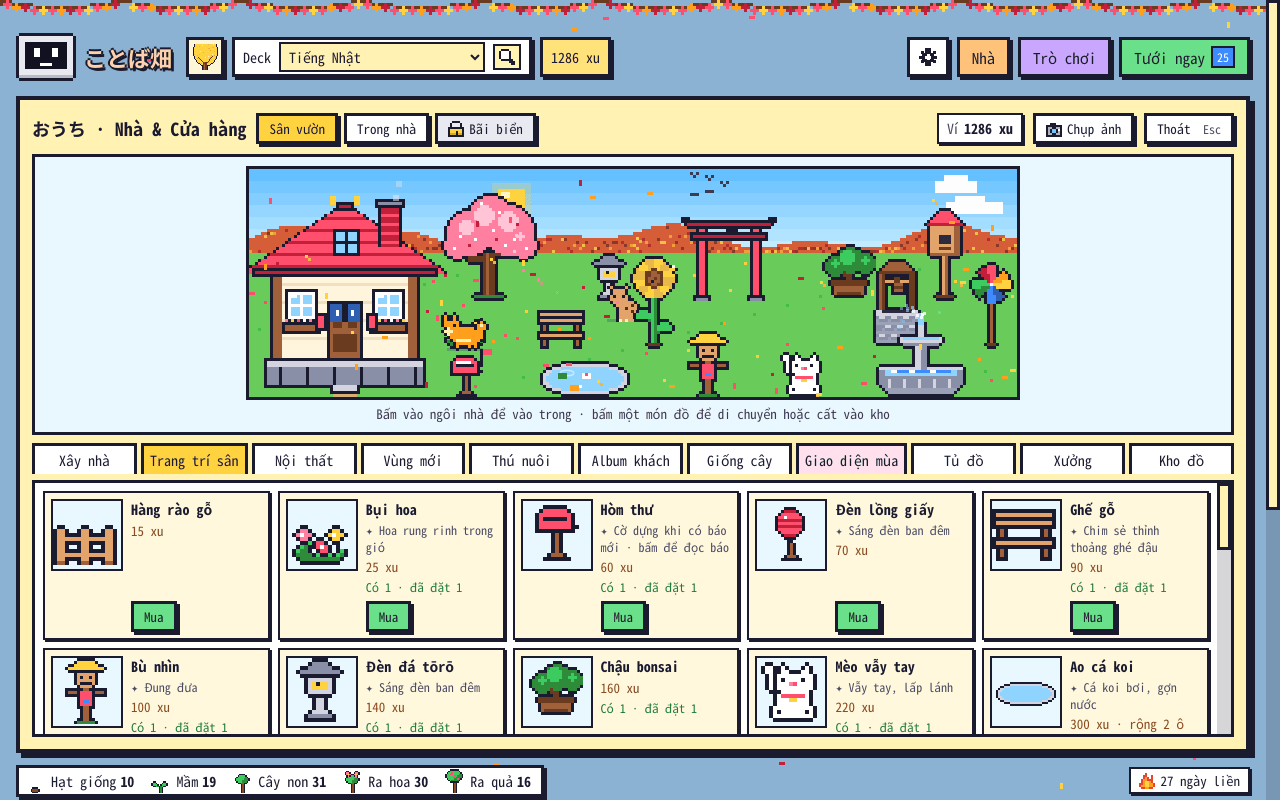
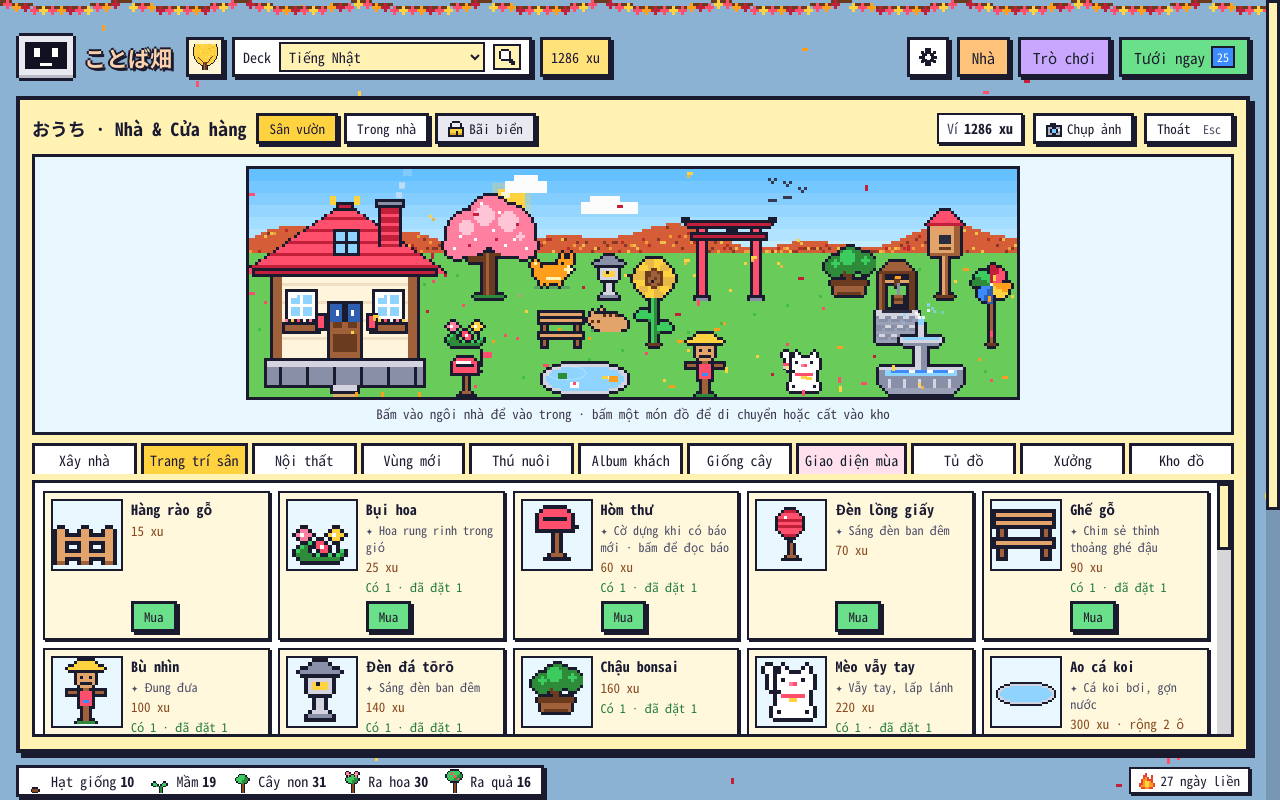
README / AnkiWeb: giới thiệu rõ giao diện mùa, nhật ký, đồ đạc
- Mục riêng "14 giao diện mùa" (ảnh ghép 8 giao diện), "Đồ đạc, tủ đồ, kho đồ"
  (133 món, 6 thú nuôi, tủ đồ StackChan, kho đồ), "Lịch hoa và nhật ký"
  (sticker tâm trạng, cuốn nhật ký xuất PDF) kèm ảnh chụp trong Anki thật.
- readme_media.js chụp thêm 8 giao diện mùa, nhật ký, tủ đồ / kho đồ;
  make_media.sh ghép ảnh mùa, giữ video cũ khi chỉ chụp ảnh.
- Mô tả AnkiWeb thêm ảnh giao diện mùa và cuốn nhật ký.

Claude-Session: https://claude.ai/code/session_014Ka8eGeT7xBp1rW5tLC6yL

diff --git a/tests/anki/readme_media.js b/tests/anki/readme_media.js
@@ -124,7 +124,7 @@ for scene, items in (("yard", yard), ("room", room)):
         st.buy(iid); st.place(scene, iid, x, y)
 for pid in ("neko", "shiba"):
     st.pet_buy(pid)
-for tid in ("momiji", "hanami", "noel"):      # giao diện mùa: tháng 11 tự dùng Mùa lá đỏ; hai cái kia để chụp
+for tid in ("momiji", "hanami", "noel", "tet", "tsuyu", "natsumatsuri", "tsukimi", "halloween"):   # tháng 11 tự dùng Mùa lá đỏ; còn lại để chụp
     st.unlock_theme(tid, "coins")
 st.set_theme("auto")
 fc = kb.fields_core
@@ -225,6 +225,57 @@ result = 1`); await sleep(2000);
       console.log('  ảnh', path.basename(PHOTO), fs.existsSync(PHOTO));
     } catch (e) { console.log('  không chụp được ảnh vườn:', e.message); }
     await hideToast();
+  }
+
+  if (ONLY !== 'video') {
+    console.log('== Giao diện mùa, nhật ký, tủ đồ');
+    // 8 giao diện mùa: ảnh sân cỡ lớn (1024 px, có khung + tên giao diện) → ghép 2 × 4 bằng make_media.sh
+    const themes = [['tet', 9, 'sunny'], ['hanami', 10, 'sunny'], ['tsuyu', 15, 'rain'], ['natsumatsuri', 20, 'sunny'],
+      ['tsukimi', 21, 'sunny'], ['momiji', 16, 'sunny'], ['halloween', 19, 'sunny'], ['noel', 18, 'snow']];
+    fs.mkdirSync(path.join(OUT, 'mua'), { recursive: true });
+    for (let i = 0; i < themes.length; i++) {
+      const [tid, hour, weather] = themes[i];
+      await py(KB + `st.set_theme("pick", "${tid}"); kb._dialog.refresh()\nresult = 1`); await sleep(1800);
+      await sky(hour, weather); await sleep(1800); await hideToast();
+      if (fs.existsSync(PHOTO)) fs.rmSync(PHOTO);
+      await js('document.getElementById("kb-yard-snap").click(); return 1;'); await sleep(300);
+      await js('document.querySelector(\'#kb-snap-pop [data-snap="l"]\').click(); return 1;');
+      for (let k = 0; k < 40 && !fs.existsSync(PHOTO); k++) await sleep(250);
+      await sleep(300);
+      if (fs.existsSync(PHOTO)) { fs.copyFileSync(PHOTO, path.join(OUT, 'mua', `${i + 1}_${tid}.png`)); console.log('  mùa', tid); }
+    }
+    await py(KB + 'st.set_theme("auto"); kb._dialog.refresh()\nresult = 1'); await sleep(1800);
+    await sky(10, 'sunny'); await hideToast();
+
+    // nhật ký: sticker + một dòng cho nhiều ngày tháng 10 / 11 (tự viết, không gửi Gemini), mở ngày có nhật ký
+    await py(KB + `import datetime as _d
+notes = {"2026-10-03": ("vui", "初めて新聞を全部読めた！"), "2026-10-07": ("met", "残業。でも十分だけ復習した。"),
+         "2026-10-12": ("hao_hung", "Lên Ra quả 5 cây một lúc."), "2026-10-18": ("thu_thai", "公園で散歩。秋の花がきれい。"),
+         "2026-10-21": ("buon", "Quên mất 三つ từ hôm qua…"), "2026-10-25": ("binh_thuong", "Ôn 30 thẻ, chép chính tả 5 câu."),
+         "2026-10-31": ("vui", "Halloween! カボチャの花が咲いた。"), "2026-11-02": ("ban", "Bận cả ngày, ôn trên tàu."),
+         "2026-11-04": ("thu_thai", "雨の日。家でお茶を飲みながら勉強。")}
+for ds, (m, t) in notes.items():
+    kb.JOURNAL.update(_d.date.fromisoformat(ds), {"m": m, "t": t})
+result = len(notes)`);
+    await js('GardenCal.open({ date: "2026-10-18", tab: "month" }); return 1;'); await sleep(2000);
+    await shot('14_nhat_ky');
+    await js('GardenCal.open({ tab: "book" }); return 1;'); await sleep(2500);
+    await shot('14b_cuon_nhat_ky');
+    await closeAll();
+
+    // tủ đồ: StackChan (linh vật ở góc trái) đội mũ rơm, đeo kính, khăn quàng, vỏ sakura
+    await py(KB + `d = st.load(); c0 = d["coins"]; d["coins"] = 100000; st.save(d)
+for w in ("straw", "glasses", "scarf", "sakura"):
+    st.buy_wear(w)
+d = st.load(); d["coins"] = c0; st.save(d)
+kb._dialog.refresh()
+result = 1`); await sleep(1800);
+    await js('GardenHome.open("yard"); return 1;'); await sleep(1200);
+    await js('document.querySelector("#kb-home button[data-tab=wear]").click(); return 1;'); await sleep(1200);
+    await shot('15_tu_do');
+    await js('document.querySelector("#kb-home button[data-tab=inv]").click(); return 1;'); await sleep(1200);
+    await shot('15b_kho_do');
+    await closeAll();
   }
 
   if (ONLY !== 'shots') {

diff --git a/docs/ankiweb_mo_ta.html b/docs/ankiweb_mo_ta.html
@@ -16,12 +16,19 @@ Mô tả cho trang add-on trên AnkiWeb (dán vào ô Description khi tải file
 
 <b>Có gì trong vườn</b>
 • <b>Tưới ngay</b>: ôn thẻ ngay trong vườn. Đây là lượt ôn Anki bình thường, lịch ôn và đồng bộ AnkiWeb không đổi. Mỗi thẻ nhớ được +1 xu.
-• <b>Nhà & Cửa hàng</b>: xây nhà, trang trí sân, bày nội thất, nuôi mèo / chó Shiba, mở 6 vùng mới, khách ghé vườn theo mùa.
+• <b>14 giao diện mùa</b> có nhạc riêng: Tết, hoa anh đào, mùa mưa, lễ hội mùa hè, Trung thu, lá đỏ, Halloween, Giáng sinh… Mở bằng xu hoặc chuỗi ngày ôn, tự bật đúng dịp trong năm.
+
+<img src="https://raw.githubusercontent.com/dungmt2808/kotoba-anki/master/docs/anh/13_giao_dien_mua.png">
+
+• <b>Nhà & đồ đạc</b>: xây nhà, 4 kiểu nhà, 133 món đồ (91 ngoài sân, 24 nội thất, 18 món hiếm), 6 thú nuôi, tủ đồ cho linh vật StackChan, kho đồ để đặt / cất lúc nào cũng được, 6 vùng mới, khách ghé vườn theo mùa.
+• <b>Lịch hoa & nhật ký</b>: mỗi ngày ôn là một chậu hoa trên lịch. Viết nhật ký một dòng kèm sticker tâm trạng; hết tháng tự đóng thành cuốn nhật ký, xuất được PDF.
+
+<img src="https://raw.githubusercontent.com/dungmt2808/kotoba-anki/master/docs/anh/14b_cuon_nhat_ky.png">
+
 • <b>5 trò chơi ôn từ</b> dùng chính từ trong deck: Nghe tìm cây, Chợ sáng, Đuổi quạ, Lật cặp, Điền vào câu. Trò chơi không ghi vào lịch ôn.
 • <b>Báo mỗi sáng</b> viết bằng từ bạn đang học (tiếng Nhật có furigana, hoặc tiếng Anh), có giọng đọc và câu hỏi. Báo do Gemini viết bằng khoá miễn phí của bạn.
 • <b>Chép chính tả</b>: nghe câu ví dụ rồi gõ lại, chạy với mọi deck.
-• <b>Lịch hoa</b>: mỗi ngày ôn là một bông hoa, kèm nhật ký một dòng và sticker tâm trạng.
-• Ngày đêm theo giờ thật, mưa, tuyết, <b>14 giao diện mùa</b> có nhạc riêng. Xưởng tự vẽ đồ pixel, chụp ảnh vườn làm hình nền.
+• Xưởng tự vẽ đồ pixel, chụp ảnh vườn làm hình nền.
 
 <b>Cách dùng</b>
 Sau khi cài, khởi động lại Anki rồi bấm nút <b>ことば畑</b> trên thanh trên cùng (hoặc Ctrl+Shift+K). Chọn deck, bấm <b>Tưới ngay</b> để ôn. Nên bật FSRS để cây lớn và héo theo trí nhớ.

diff --git a/README.md b/README.md
@@ -24,17 +24,47 @@ Bấm **Tưới ngay** để ôn ngay trong vườn. Đây là lượt ôn Anki 
 
 ![Ôn thẻ trong vườn: thẻ của bạn hiện như trong Anki, bốn nút Lại / Khó / Được / Dễ](docs/anh/02_on_the.png)
 
+### 14 giao diện mùa
+
+Vườn thay áo theo mùa: Tết, hoa anh đào, mùa mưa cẩm tú cầu, lễ hội mùa hè, Thất Tịch, Trung thu, lá đỏ, Halloween, Giáng sinh, năm mới Nhật Bản và bốn mùa xuân, hạ, thu, đông. Mỗi giao diện đổi màu trời, núi, dây cờ, hạt bay, **nhạc nền riêng**, và phủ cả các vùng lẫn màn trò chơi. Mở một giao diện bằng 1000 xu hoặc bằng chuỗi 7–10 ngày ôn liên tục, kèm quà là các món đồ của mùa đó. Ở chế độ **Tự động**, giao diện đã mở tự bật đúng dịp trong năm.
+
+![8 trong 14 giao diện mùa: Tết, hoa anh đào, mùa mưa, lễ hội mùa hè, Trung thu, lá đỏ, Halloween, Giáng sinh](docs/anh/13_giao_dien_mua.png)
+
+Trời còn đổi theo giờ thật (sáng, hoàng hôn, đêm có đèn lồng và đom đóm), có mưa và tuyết.
+
 ### Nhà & Cửa hàng
 
-Xây nhà từng bước, từ bãi đất trống tới gác mái có đèn lồng. Sau đó trang trí sân (cổng torii, ao cá koi, cây anh đào…), bày nội thất, nuôi mèo, chó Shiba, thỏ hoặc vịt. Mở thêm 6 vùng mới như bãi biển hay đền thần. Thỉnh thoảng có **khách ghé vườn**, như chim sẻ, cáo hay hươu Nara, tuỳ đồ bạn đặt và tuỳ mùa. Khách đã gặp được ghi vào Album khách.
+Xây nhà từng bước, từ bãi đất trống tới gác mái có đèn lồng, rồi đổi kiểu nhà (nhà mái tranh minka, nhà trà chashitsu, lâu đài mini). Trang trí sân, bày nội thất, nuôi thú, mở thêm 6 vùng mới như bãi biển hay đền thần. Thỉnh thoảng có **khách ghé vườn**, như chim sẻ, cáo hay hươu Nara, tuỳ đồ bạn đặt và tuỳ mùa. Khách đã gặp được ghi vào Album khách.
 
 | Sân vườn | Trong nhà |
 |---|---|
 | ![Nhà & Cửa hàng, tab Trang trí sân](docs/anh/03_nha_trang_tri.png) | ![Trong nhà: kotatsu, bể cá, kệ sách, mèo ngủ](docs/anh/04_trong_nha.png) |
 
-Có **Xưởng** để tự vẽ đồ pixel và giống cây riêng, hoặc chuyển một tấm ảnh thành pixel. Thiết kế chia sẻ được cho bạn bè bằng một đoạn mã. Nút **Chụp ảnh** lưu khu vườn thành ảnh, có cỡ hình nền 1920 × 1080:
+### Đồ đạc, tủ đồ, kho đồ
+
+- **133 món đồ**: 91 món ngoài sân (cổng torii, ao cá koi, cây anh đào, đài phun nước…), 24 món nội thất (kotatsu, bể cá, radio cổ…) và 18 món hiếm chỉ có trong rương quà nhiệm vụ.
+- **6 thú nuôi**: gà, vịt, thỏ, rùa, mèo mướp, chó Shiba. Thú có tên, có độ thân, đi lại khắp sân.
+- **Tủ đồ**: 17 món cho StackChan (linh vật ở góc trái): mũ rơm, nón lá, kính tròn, khăn quàng, vỏ màu sakura… cùng 7 biểu cảm.
+- **Kho đồ**: mọi món đã có, kể cả quà của giao diện mùa. Đặt ra sân, di chuyển hay cất lại lúc nào cũng được, không mất gì.
+- **Xưởng**: tự vẽ đồ pixel và giống cây riêng, hoặc chuyển một tấm ảnh thành pixel. Thiết kế chia sẻ được cho bạn bè bằng một đoạn mã.
+
+| Tủ đồ | Kho đồ |
+|---|---|
+| ![Tủ đồ: StackChan đội mũ rơm, đeo kính, khăn quàng đỏ](docs/anh/15_tu_do.png) | ![Kho đồ: các món chưa đặt, có nút Đặt](docs/anh/15b_kho_do.png) |
+
+Nút **Chụp ảnh** lưu khu vườn thành ảnh, có cỡ hình nền 1920 × 1080:
 
 ![Ảnh vườn tự chụp, cỡ hình nền 1920 × 1080](docs/anh/anh_vuon_1920.png)
+
+### 花暦 · Lịch hoa và nhật ký
+
+Mỗi ngày bạn ôn là một chậu hoa trên lịch, loài hoa đổi theo giao diện mùa. Ngày ôn càng nhiều, hoa càng lớn. Bấm vào một ngày để viết **nhật ký một dòng** (tối đa 200 ký tự) và chọn **sticker tâm trạng**. Nhật ký đồng bộ qua AnkiWeb và không gửi cho Gemini.
+
+Hết tháng, nhật ký tự đóng thành **một cuốn** trên kệ sách: ảnh vườn của tháng, số ngày ôn, ngày ôn nhiều nhất, tâm trạng cả tháng, từng dòng nhật ký. Cuốn nhật ký **xuất được ra PDF** khổ A5 để in hay giữ làm kỷ niệm. Có thêm ô **luyện viết** một hai câu tiếng Nhật hoặc tiếng Anh, Gemini sửa một lần mỗi ngày.
+
+| Lịch tháng + nhật ký | Cuốn nhật ký |
+|---|---|
+| ![Lịch hoa tháng 10, có sticker ở những ngày viết nhật ký](docs/anh/14_nhat_ky.png) | ![Cuốn nhật ký tháng 10 trên kệ sách](docs/anh/14b_cuon_nhat_ky.png) |
 
 ### 5 trò chơi ôn từ
 
@@ -53,22 +83,6 @@ Mỗi sáng có một số báo tiếng Nhật 畑新聞 (hoặc báo tiếng An
 | Báo | Chép chính tả |
 |---|---|
 | ![Báo 畑新聞 có furigana và giọng đọc](docs/anh/06_bao.png) | ![Chép chính tả](docs/anh/07_chep_chinh_ta.png) |
-
-### 花暦 · Lịch hoa và nhật ký
-
-Mỗi ngày bạn ôn là một bông hoa trên lịch, đổi loài theo mùa. Có lịch năm dạng ô màu, **nhật ký một dòng** kèm sticker tâm trạng, ô **luyện viết** (Gemini sửa một lần mỗi ngày) và **cuốn nhật ký** cuối tháng xuất ra PDF. Nhật ký đồng bộ qua AnkiWeb và không gửi cho Gemini.
-
-| Tháng | Năm |
-|---|---|
-| ![Lịch hoa tháng 10](docs/anh/08b_lich_hoa_thang_truoc.png) | ![Lịch hoa cả năm](docs/anh/08c_lich_hoa_nam.png) |
-
-### Ngày đêm, thời tiết, giao diện mùa
-
-Trời đổi theo giờ thật: sáng, hoàng hôn, đêm có đèn lồng và đom đóm. Có mưa và tuyết. Có **14 giao diện mùa** (hoa anh đào, lễ hội mùa hè, Trung thu, lá đỏ, Giáng sinh, Tết…), mỗi giao diện có nhạc riêng. Mở giao diện bằng xu hoặc bằng chuỗi ngày ôn liên tục.
-
-| Vườn ban đêm | Giáng sinh |
-|---|---|
-| ![Vườn ban đêm](docs/anh/09_vuon_dem.png) | ![Giao diện Giáng sinh, tuyết rơi](docs/anh/10b_giang_sinh.png) |
 
 ### Mục tiêu nhỏ mỗi ngày
 

diff --git a/PHAT_TRIEN.md b/PHAT_TRIEN.md
@@ -243,7 +243,7 @@ Giờ thật / giờ game / cố định, 6 buổi trong ngày, thời tiết đ
 - **Tab Nguồn báo**: thẻ **Claude Code** chỉ vẽ khi `v.claude.set` (= `bao_dir` khác rỗng, `_bao_dir_set()` trong `__init__.py`; chỉ dấu cách coi như rỗng). Không xoá mã kotoba_daily (máy người dùng đặt `bao_dir` nên vẫn dùng như cũ). Nút "Nguồn báo…" ở ⚙ đổi chú thích thành "Gemini viết báo mỗi sáng bằng từ bạn đang học".
 - `paper_source`: `bao_source: "claude"` mà `bao_dir` trống → như `"auto"` (trước: báo tiếng Nhật "chưa có nguồn" mà không còn thẻ nào để đổi). Nút **Dùng Gemini cho báo tiếng Nhật** nay hiện cả khi đang chọn Claude Code mà thư mục không còn (ổ ngoài rút ra).
 - **Hướng dẫn cách nâng cao**: `config.md` (mục *Báo do Claude Code viết*, hiện trong Tools → Add-ons → Config) và README.md (mục *Nâng cao*), trỏ tới `kotoba_daily/HUONG_DAN.md` trên GitHub.
-- **README.md mới** (trang giới thiệu): ảnh trong `docs/anh/`, video `docs/video/tour.mp4` (~55 giây) + `tour.gif` (22 giây đầu, hiện thẳng trong README). Dựng lại được: `tests/anki/setup_demo.sh` (bộ thẻ mẫu `demo_col.py`: 90 từ N5 với câu ví dụ tự viết, 16 chữ Hán, 40 từ tiếng Anh, revlog 90 ngày) → `run_anki.sh` → `node tests/anki/readme_media.js OUT` (xây nhà, đặt đồ, thú nuôi, 3 giao diện mùa, chụp 1280 × 800, quay bằng `Page.startScreencast` có con trỏ chuột vẽ thêm) → `tests/tools/make_media.sh OUT docs`. Đổi giao diện thì chạy lại để ảnh khớp bản mới.
+- **README.md mới** (trang giới thiệu; người dùng muốn giới thiệu rõ **giao diện mùa, nhật ký, đồ dùng** → mục riêng: ảnh ghép 8 giao diện mùa, Lịch hoa + Cuốn nhật ký, Tủ đồ + Kho đồ): ảnh trong `docs/anh/`, video `docs/video/tour.mp4` (~55 giây) + `tour.gif` (22 giây đầu, hiện thẳng trong README). Dựng lại được: `tests/anki/setup_demo.sh` (bộ thẻ mẫu `demo_col.py`: 90 từ N5 với câu ví dụ tự viết, 16 chữ Hán, 40 từ tiếng Anh, revlog 90 ngày) → `run_anki.sh` → `node tests/anki/readme_media.js OUT` (xây nhà, đặt đồ, thú nuôi, 3 giao diện mùa, chụp 1280 × 800, quay bằng `Page.startScreencast` có con trỏ chuột vẽ thêm) → `tests/tools/make_media.sh OUT docs`. Đổi giao diện thì chạy lại để ảnh khớp bản mới. Bản nháp mô tả trang AnkiWeb: `docs/ankiweb_mo_ta.html`.
 - Test: `tests/anki/e2e_1228.js` (26 kiểm tra).
 
 ### 2.6d Hiệu ứng thành tích (1.14)
